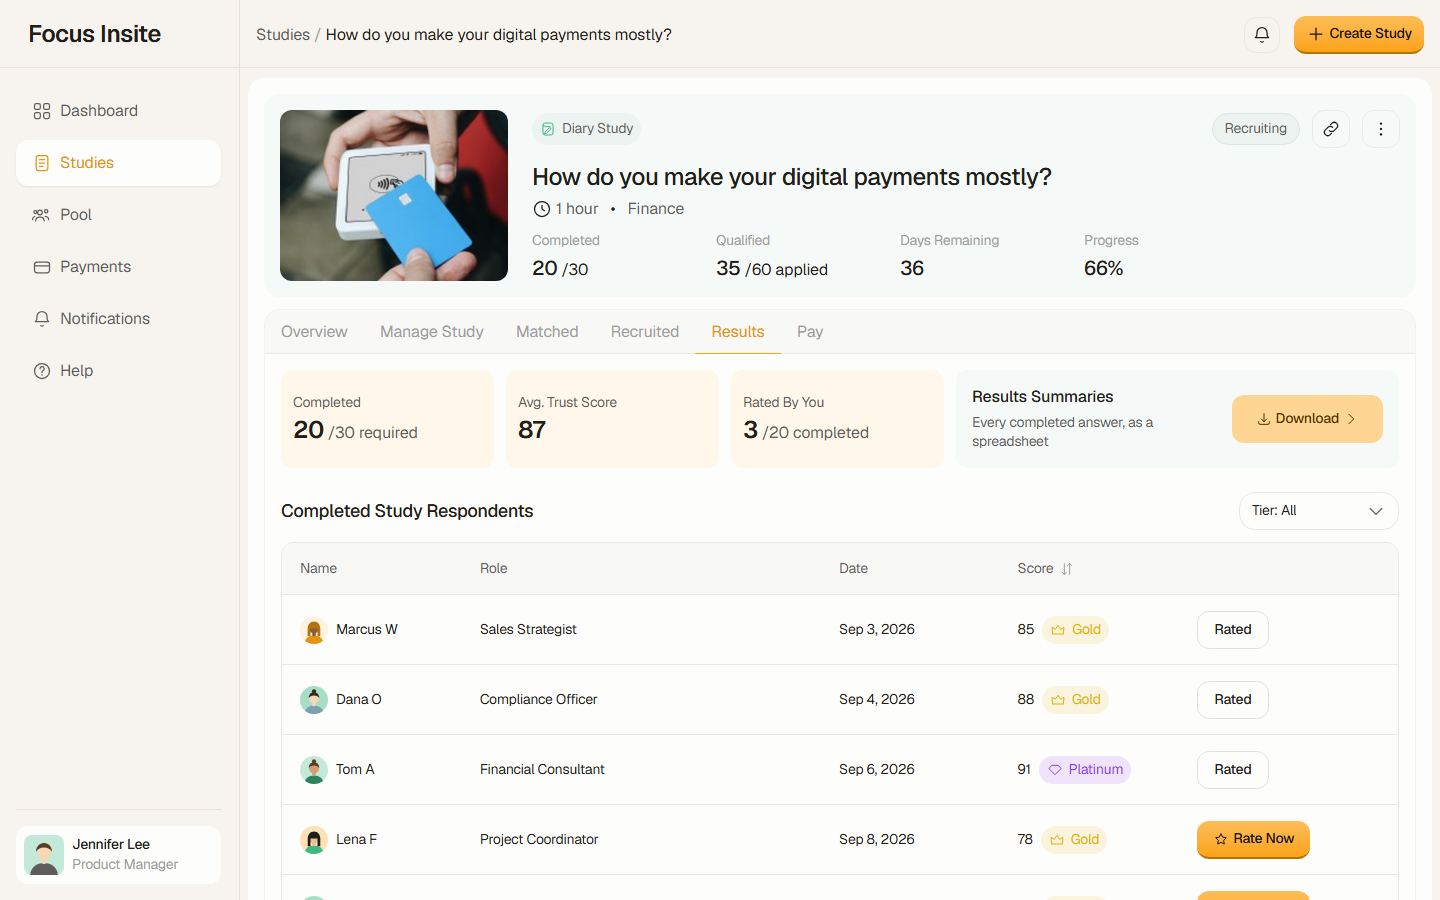
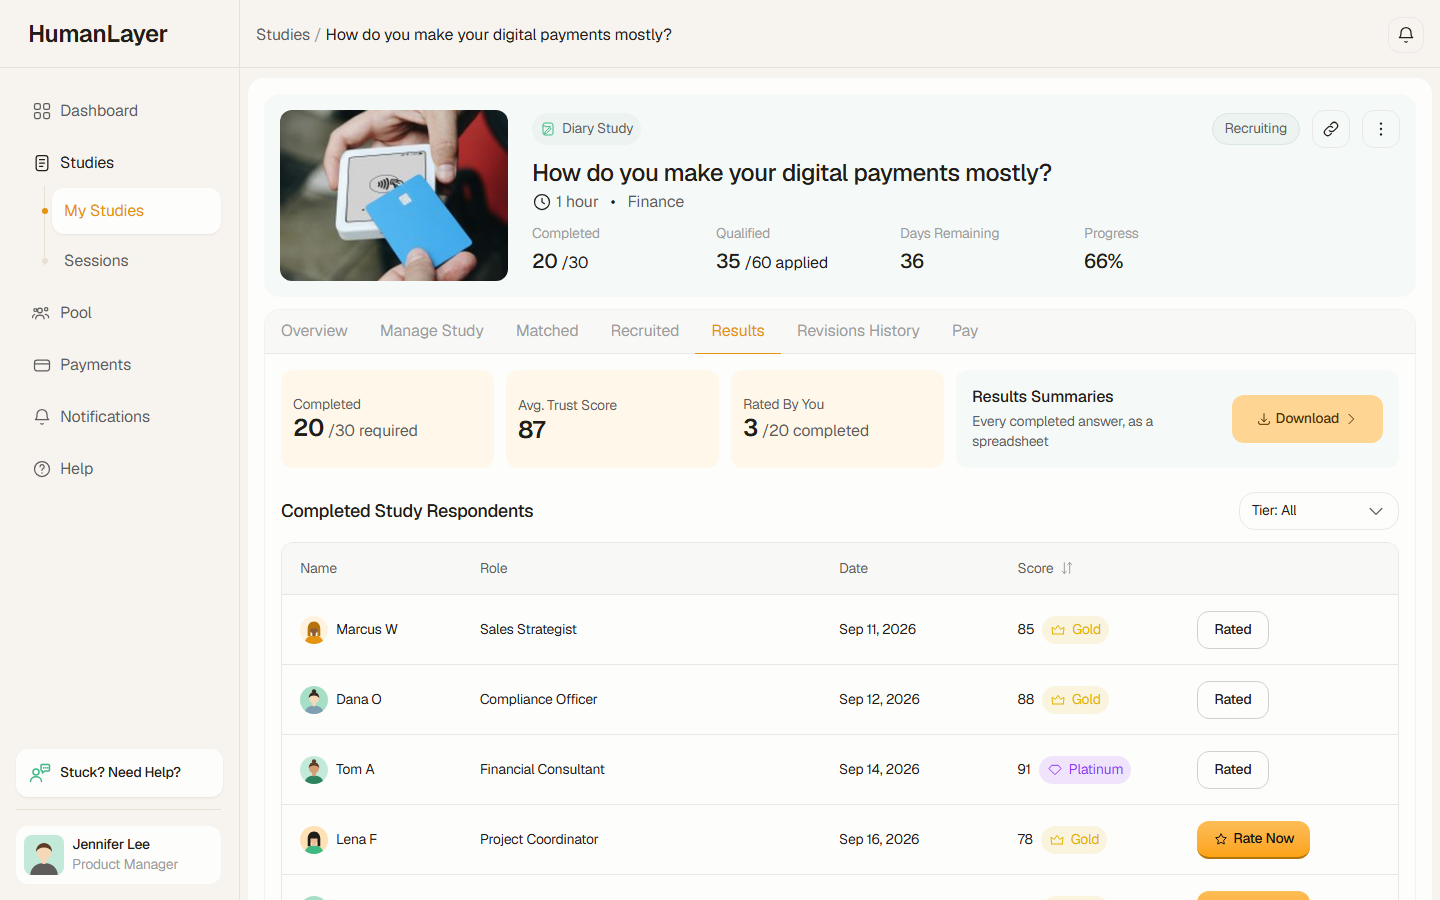
Re-shoot the landing dashboard and results pictures with the HumanLayer wordmark; record the name change as pending in the documents

diff --git a/docs/Document-Updates-Pending.md b/docs/Document-Updates-Pending.md
@@ -9,3 +9,22 @@ Three decisions are open and recorded as open in PRD Section 16: the deposit
 The BRD lists them in Section 4.3.
 
 The full list that was applied is in this file's history in git.
+
+## Pending, 21 October 2026: the HumanLayer name in all three apps
+
+HumanLayer is the brand every user sees, in all three apps. Focus Insite stays
+the operating company. The PRD and BRD still say otherwise in these places:
+
+| Document | Section | It says | The build now |
+|---|---|---|---|
+| PRD | 4.1 (table, "Brand shown") | Console: "Admin Panel" | The console's browser tab reads "HumanLayer Admin Panel"; the sidebar still reads "Admin Panel" beside the HumanLayer mark |
+| PRD | 4.1, "Brand." paragraph | The console "is titled Admin Panel" | As above |
+| PRD | D11, "What appears on screen" | The client app carries HumanLayer "in its sidebar wordmark" | Throughout the client app: the browser tab, the landing page header and footer, "Welcome To HumanLayer!", the help answers, the certificate copy and the study preview header |
+| BRD | 8, D10 | The same reading as PRD D11 | As above |
+
+Spelling everywhere: **HumanLayer**, one word, capital H and L, as the logo
+spells it. Three places that read "Human Layer" now read "HumanLayer".
+
+Still open, waiting on a decision: the lines that name Focus Insite as the team
+or the company (the console entrance, "the Focus Insite team" in payout and
+cancellation copy, the client terms agreement) and the focusinsite.com links.
